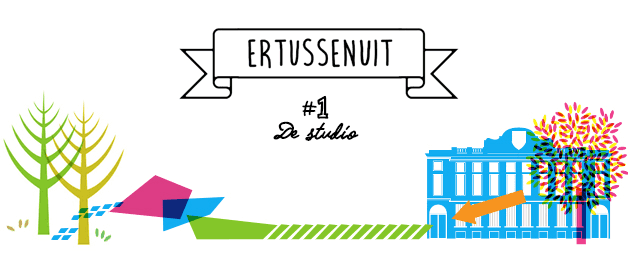
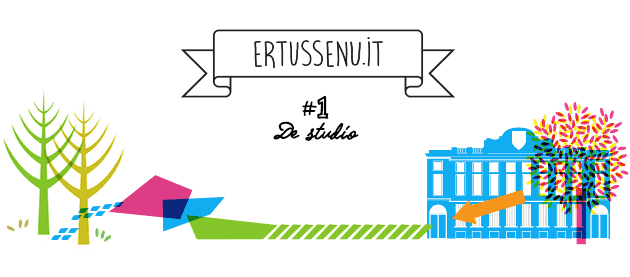
update head, foot, text

Changed region(s): [[0.2714, 0.0866, 0.7238, 0.3755], [0.8444, 0.4332, 0.9952, 0.7509]]

diff --git a/index.html b/index.html
@@ -5,13 +5,15 @@ title: Ertussenuit #1 - 19/12/2013
 <h1>Ertussenuit #1</h1>
 <h2 class="tagline">Gratis dag vol inspiratie en kennis in De studio</h2>
 
-<p>Op <strong>donderdag 19 december</strong> houden de studenten en de docenten van Multimedia en Communicatietechnologie van KdG de eerste editie van Ertussenuit.
-Er worden presentaties gegeven die 'food for thought' meegeven en onder de middag staan enkele straffe studenten  op ons podium (The Young Ones)</p>
+<p>Op <strong>donderdag 19 december</strong> houdt de richting Multimedia en Communicatietechnologie van KdG de eerste editie van Ertussenuit.
+Er zal heel wat 'food for thought' worden meegeven.
+We nodigen een aantal sprekers uit die elk vanuit hun passie en expertise een boeiende presentatie neerzetten.
+Tijdens de middagpauze staan enkele straffe studenten op ons podium (The Young Ones).</p>
 
 <h3>Programma</h3>
 <ul>
   <li>9.30u: onthaal</li>
-  <li>10u: <a href="http://b-kites.blogspot.be/">Bert Maetens</a> - B-Kites</li>
+  <li>10u: <a href="http://b-kites.blogspot.be/">Bert Maetens</a> - Fotograferen vanuit kites</li>
   <li>11u: <a href="https://twitter.com/thijsferyn">Thijs Feryn</a> - Open source development trends</li>
   <li>12u: Lunch: soep!</li>
   <li>12.30u: The Young Ones (tijdens lunch)</li>
@@ -19,7 +21,8 @@ Er worden presentaties gegeven die 'food for thought' meegeven en onder de midda
   <li>14.30u: <a href="https://twitter.com/wolfr_">Johan Ronsse</a> - Modern HTML prototypen</li>
 </ul>
 
-<p>’s Ochtends en doorheen de dag zorgen we voor koffie. ’s Middags voorzien we soep en brood.</p>
+<p>In de ochtend en doorheen de dag zorgen we voor koffie.<br>
+Op de middag voorzien we soep en brood.</p>
 
 <h3>Locatie</h3>
 <p>
@@ -29,7 +32,7 @@ Maarschalk Gerardstraat 4,<br>
 <a href="http://destudio.com">destudio.com</a>
 </p>
 
-<p>Dit event is gratis. Breng gerust nog iemand mee.</p>
+<p>Dit event is gratis. Je uitnodiging is persoonlijk, maar breng gerust nog iemand mee. </p>
 
 <h3>Updates</h3>
 <a href="https://twitter.com/ertussenu_it">@ertussenu_it</a>

diff --git a/_layouts/default.html b/_layouts/default.html
@@ -46,5 +46,6 @@
     <body>
         <img class="sail" src="img/head.png" alt="Ertussenuit #1. De Studio.">
         {{ content }}
+        <img class="feet" src="img/feet.png" alt="Ertussenuit partners: Karel De Grote Hogeschool, Fair Trade, Rombouts, Ecocert.">
     </body>
 </html>
